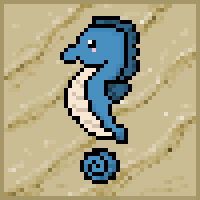
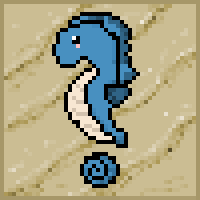
renderer(feature): Drew the crabs for level 2, fixed seahorse image and implemented how crabs are passed to renderer

Changed region(s): [[0.24, 0.06, 0.72, 0.96]]

diff --git a/src/main/java/nz/ac/wgtn/swen225/lc/renderer/imgs/Drawable.java b/src/main/java/nz/ac/wgtn/swen225/lc/renderer/imgs/Drawable.java
@@ -1,6 +1,7 @@
 package nz.ac.wgtn.swen225.lc.renderer.imgs;
 import nz.ac.wgtn.swen225.lc.app.gui.AppWindow;
 import nz.ac.wgtn.swen225.lc.domain.Direction;
+import nz.ac.wgtn.swen225.lc.domain.Monster;
 import nz.ac.wgtn.swen225.lc.domain.Player;
 import nz.ac.wgtn.swen225.lc.domain.Position;
 import nz.ac.wgtn.swen225.lc.domain.entities.*;
@@ -11,6 +12,7 @@ import javax.swing.*;
 import java.awt.*;
 import java.awt.image.BufferedImage;
 import java.util.Map;
+import java.util.List;
 
 /**
  * Creates a JPanel of all tiles needed to be loaded
@@ -21,8 +23,9 @@ public class Drawable extends JPanel{
     private final int ROWS = AppWindow.MAZE_SIZE/AppWindow.SQUARE_SIZE; //amount of rows drawn
     private final int SIZE = AppWindow.SQUARE_SIZE;//size of each tile
     Player player; //the player
-   int centerX;// x pos of player
+    int centerX;// x pos of player
     int centerY;// y pos of plater
+    List<Monster> crabs; // all the enemies
 
     Map<Direction, LoadingImg> directionLookUpTable = Map.of(  //lookup table to see the direction of the player
             Direction.UP, LoadingImg.PlayerUp,
@@ -35,23 +38,26 @@ public class Drawable extends JPanel{
      * Constructor to set all the tiles and player within the world
      * @param currentTiles - all the tiles within the current world
      * @param player - current player
+     * @param enemies - list of all crabs
      */
-    public Drawable(Tile[][] currentTiles, Player player){
-        setAllTiles(currentTiles, player);
+    public Drawable(Tile[][] currentTiles, Player player, List<Monster> enemies){
+        setAllTiles(currentTiles, player, enemies);
     }
 
     /**
      * Gets all the tiles in the world and player
      * @param currentTiles - tiles of the world
      * @param player - the player
+     * @param enemies - list of the crabs
      */
-    public void setAllTiles(Tile[][] currentTiles, Player player){
+    public void setAllTiles(Tile[][] currentTiles, Player player, List<Monster> enemies){
         System.out.println("*DEBUG* Inside of the Renderer Package Now");
         allTiles = currentTiles;
         this.player = player;
         Position p = player.getPos();
         centerX = p.getX();
         centerY = p.getY();
+        this.crabs =  enemies;
     }
 
     /**
@@ -81,10 +87,19 @@ public class Drawable extends JPanel{
                 int screenY = (dy + 4) * SIZE;
 
                 g.drawImage(image, screenX, screenY, SIZE, SIZE, null); //draws the tile
+
+                // draws the crabs
+                for(Monster c : crabs){
+                    if(c.getPos().getX() == worldX && c.getPos().getY() == worldY){
+                        g.drawImage(LoadingImg.enemyCrab.loadImage(), screenX, screenY, SIZE, SIZE, null);
+                    }
+                }
+
             }
         }
         g.drawImage(directionLookUpTable.get(player.getDirection()).loadImage(),4*SIZE, 4*SIZE, SIZE, SIZE, null);// draws the player
     }
+
 
     /**
      * Draws tiles onto the JPanel

diff --git a/src/main/java/nz/ac/wgtn/swen225/lc/app/controller/module/RendererController.java b/src/main/java/nz/ac/wgtn/swen225/lc/app/controller/module/RendererController.java
@@ -36,7 +36,7 @@ public class RendererController {
         }
 
         // Update Maze
-        mazePanel.setAllTiles(domainController.tileGrid(), domainController.player());
+        mazePanel.setAllTiles(domainController.tileGrid(), domainController.player(), domainController.monsters());
         mazePanel.repaint();
     }
 

diff --git a/src/main/java/nz/ac/wgtn/swen225/lc/renderer/Renderer.java b/src/main/java/nz/ac/wgtn/swen225/lc/renderer/Renderer.java
@@ -35,7 +35,7 @@ public class Renderer {
      * Constructor for Renderer that sets a Drawable
      */
     public Renderer(Tile[][] currentTiles, Player player, List<Monster> monsters){
-        drawable = new Drawable(currentTiles, player);
+        drawable = new Drawable(currentTiles, player, monsters);
     }
 
     /**
